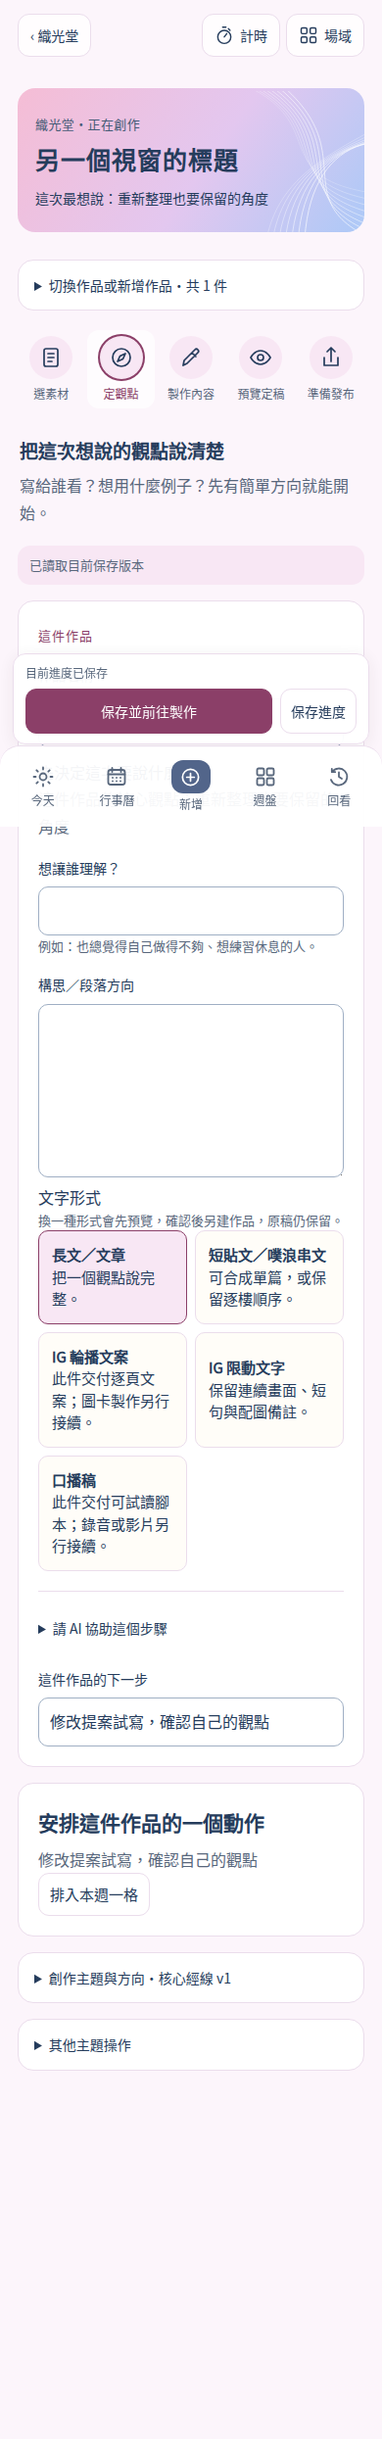
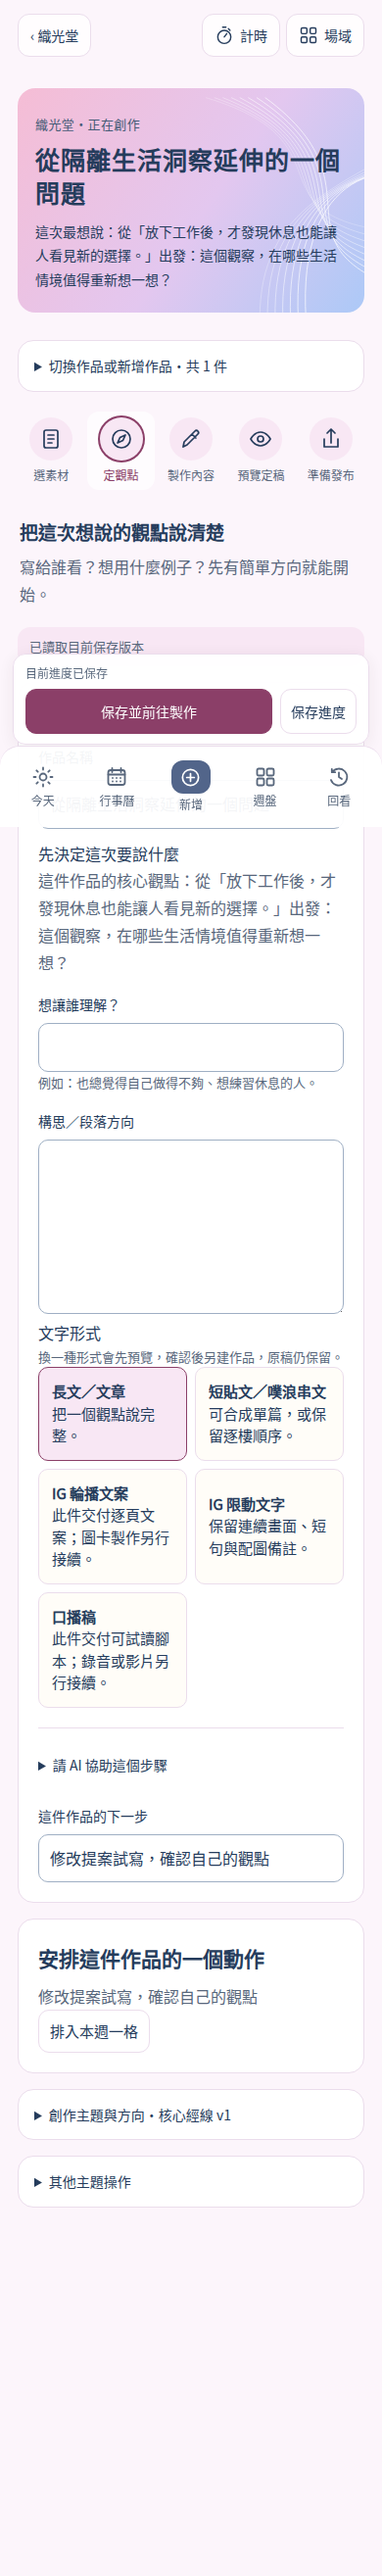
fix: freeze proposal scan plans and preserve safe recovery authorization

Changed region(s): [[0.0308, 0.0, 0.9538, 0.8659], [0.4308, 0.4948, 0.8615, 0.6185]]

diff --git a/lib/dojo/creativeProposals/store.ts b/lib/dojo/creativeProposals/store.ts
@@ -47,26 +47,37 @@ export async function patchProposal(body:Body){
  })]);return read(p.id);
 }
 async function allowedSource(ref:SourceRef){const policy=await sourcePolicies.read(ref);if(policy?.discovery!=='allow')return null;return resolvePolicySource(ref);}
+type ScanPlan={schema:1;refs:SourceRef[];audience:string;at:string;afterKey:string|null};
+function scanPlan(value:unknown):ScanPlan{
+ const p=value as ScanPlan;
+ if(!p||p.schema!==1||!Array.isArray(p.refs)||p.refs.length>10||typeof p.audience!=='string'||typeof p.at!=='string'||!Number.isFinite(Date.parse(p.at)))throw new LearningError('找題操作缺少可核對的原批次，請核對原操作',409);
+ const refs=p.refs.map(parseSourceRef),keys=refs.map(sourceKey);
+ if(new Set(keys).size!==keys.length||p.afterKey!==(keys.at(-1)??null))throw new LearningError('找題原批次游標不符',409);
+ return{...p,refs};
+}
 export async function scan(body:Body,now=new Date()){
  const op=operationId(body),s=await settings();const policies=(await sourcePolicies.list()).filter(p=>p.discovery==='allow'&&s.sourceTypes.includes(p.ref.sourceType)).sort((a,b)=>sourceKey(a.ref).localeCompare(sourceKey(b.ref)));
  const start=s.afterKey?policies.findIndex(p=>sourceKey(p.ref)>s.afterKey!):0;const batch=policies.slice(start<0?0:start,(start<0?0:start)+10);
- if(!batch.length)return {created:0,skipped:true};
- const steps:OperationStep[]=batch.map((policy,index)=>{
-  const key='candidate-'+index;let candidate:Omit<Proposal,'id'>|null=null;
+ const plan:ScanPlan={schema:1,refs:batch.map(p=>p.ref),audience:s.audience,at:now.toISOString(),afterKey:batch.length?sourceKey(batch.at(-1)!.ref):null};
+ const receipt=await runWeavingOperation(owner,op,'proposal_scan',body,r=>{
+ const saved=scanPlan(r.context);
+ const steps:OperationStep[]=saved.refs.map(ref=>{
+  const key='candidate-'+operationDigest(sourceKey(ref));let candidate:Omit<Proposal,'id'>|null=null;
   const writing=createStep(PROPOSAL_PREFIX,key,()=>{if(!candidate)throw new LearningError('來源尚未核對',409);return candidate;});
   return {key,async findConfirmed(r){
    const confirmed=await writing.findConfirmed(r);if(confirmed)return confirmed;
-   const source=await allowedSource(policy.ref);if(!source||!source.text.trim())return{id:'unavailable'};
-   candidate=buildCandidate(source,s.audience,now.toISOString(),owner);
-   const old=(await proposals()).filter(p=>sourceKey(p.source.ref)===sourceKey(policy.ref)&&p.source.digest===candidate!.source.digest);
+   const source=await allowedSource(ref);if(!source||!source.text.trim())return{id:'unavailable'};
+   candidate=buildCandidate(source,saved.audience,saved.at,owner);
+   const old=(await proposals()).filter(p=>sourceKey(p.source.ref)===sourceKey(ref)&&p.source.digest===candidate!.source.digest);
    if(old.length>1)throw new LearningError('來源有重複提案，請先核對',409);
    return old.length?{id:old[0].id}:null;
   },execute:writing.execute};
  });
- steps.push(settingsStep(current=>({...current,lastScanAt:now.toISOString(),afterKey:sourceKey(batch.at(-1)!.ref)})));
- await runWeavingOperation(owner,op,'proposal_scan',body,steps);
+ if(saved.refs.length)steps.push(settingsStep(current=>({...current,lastScanAt:current.lastScanAt&&current.lastScanAt>saved.at?current.lastScanAt:saved.at,afterKey:saved.afterKey})));
+ return steps;
+ },plan);
  const created=(await listJsonRecords(PROPOSAL_PREFIX)).filter(row=>(row.value as {_weavingMutation?:{operationId:string;owner:string}})?._weavingMutation?.operationId===op).length;
- return{created,skipped:false};
+ return{created,skipped:scanPlan(receipt.context).refs.length===0};
 }
 export async function runDue(now=new Date()){
  const s=await settings();if(!s.automaticEnabled||!s.cadenceHours||s.lastScanAt&&now.getTime()-Date.parse(s.lastScanAt)<s.cadenceHours*3600000)return{skipped:true};
@@ -84,6 +95,6 @@ export async function acceptProposal(body:Body){
  const r=await runWeavingOperation(owner,op,'proposal_accept',body,[
   unique('shuttle',WEAVING_SHUTTLE_TITLE_PREFIX,async()=>marked({...createShuttleDraft({title:p.title,coreStatement:p.angle,sourceType:'selected_sources',sourceId:p.source.ref.sourceId,sourceRefs:[p.source.ref],sourceSnapshot:p.source.text}),sourceSelections:[selection],revision:1})),
   unique('work',WEAVING_WORK_TITLE_PREFIX,async receipt=>{const shuttle=await readShuttle(receipt.result.shuttle.id);return marked({...createWorkDraft({shuttleId:shuttle.id,title:p.title,coreVersionId:shuttle.currentCoreVersionId,format:'text'}),status:'drafting',revision:1,draftText:p.trial,nextAction:'修改提案試寫，確認自己的觀點',textWorkflow:{...createTextWorkflow('article'),currentStep:'concept',sourceSelections:[selection],blocks:[{id:'proposal-trial',role:'提案試寫（待修改）',text:p.trial,mediaNote:''}]}});}),
-  updateStep(p.id,PROPOSAL_PREFIX,'proposal',(row,receipt)=>{const old=JSON.parse(row.內容) as Proposal;expectRevision(old,body.expectedRevision);return {...old,status:'accepted',revision:old.revision+1,acceptedWorkId:receipt.result.work.id,acceptedShuttleId:receipt.result.shuttle.id,updatedAt:new Date().toISOString()};})
+  updateStep(p.id,PROPOSAL_PREFIX,'proposal',async(row,receipt)=>{await verify();const old=JSON.parse(row.內容) as Proposal;expectRevision(old,body.expectedRevision);return {...old,status:'accepted',revision:old.revision+1,acceptedWorkId:receipt.result.work.id,acceptedShuttleId:receipt.result.shuttle.id,updatedAt:new Date().toISOString()};})
  ]);return{workId:r.result.work.id,shuttleId:r.result.shuttle.id};
 }

diff --git a/lib/dojo/weavingWorkflow/operations.ts b/lib/dojo/weavingWorkflow/operations.ts
@@ -22,6 +22,8 @@ export type OperationReceipt = {
     result: Record<string, EntityRef>;
     state: 'pending' | 'confirmed' | 'rejected' | 'unresolved';
     error?: string;
+    // Server-owned immutable recovery plan; never inferred again on a retry.
+    context?: unknown;
 };
 export type OperationStep = {
     key: string;
@@ -82,7 +84,15 @@ async function persist(receipt: OperationReceipt): Promise<void> {
         await parent.close();
     }
 }
-export async function runWeavingOperation(owner: string, id: string, kind: OperationKind, input: unknown, steps: OperationStep[]): Promise<OperationReceipt> {
+async function recordFailure(receipt: OperationReceipt, error: unknown): Promise<void> {
+    const states = Object.values(receipt.steps);
+    receipt.state = states.some(s => s === 'dispatching' || s === 'unresolved') ? 'unresolved'
+        : states.includes('confirmed') ? 'pending' : 'rejected';
+    receipt.error = error instanceof Error ? error.message : String(error);
+    receipt.updatedAt = new Date().toISOString();
+    await persist(receipt);
+}
+export async function runWeavingOperation(owner: string, id: string, kind: OperationKind, input: unknown, steps: OperationStep[] | ((receipt: OperationReceipt) => OperationStep[]), context?: unknown): Promise<OperationReceipt> {
     const digest = operationDigest(input), old = await inspectWeavingOperation(owner, id);
     if (old && (old.kind !== kind || old.inputDigest !== digest))
         throw new WeavingError('同一操作識別的內容不同，請保留原操作或重新確認新內容', 409);
@@ -95,12 +105,22 @@ export async function runWeavingOperation(owner: string, id: string, kind: Opera
         if (previous?.state === 'confirmed')
             return previous;
         const now = new Date().toISOString();
-        const receipt: OperationReceipt = previous ?? { schemaVersion: 1, owner, operationId: id, kind, inputDigest: digest, createdAt: now, updatedAt: now, steps: {}, result: {}, state: 'pending' };
+        const receipt: OperationReceipt = previous ?? { schemaVersion: 1, owner, operationId: id, kind, inputDigest: digest, createdAt: now, updatedAt: now, steps: {}, result: {}, state: 'pending', ...(context === undefined ? {} : {context}) };
         await persist(receipt);
-        for (const step of steps) {
+        let planned: OperationStep[];
+        try { planned = typeof steps === 'function' ? steps(receipt) : steps; }
+        catch (error) { await recordFailure(receipt, error); throw error; }
+        for (const step of planned) {
             if (receipt.steps[step.key] === 'confirmed')
                 continue;
-            const found = await step.findConfirmed(receipt);
+            let found: EntityRef | null;
+            try { found = await step.findConfirmed(receipt); }
+            catch (error) {
+                // Pre-dispatch validation can safely release an untouched operation.
+                // Never discard confirmed partial work or an uncertain dispatched step.
+                await recordFailure(receipt, error);
+                throw error;
+            }
             if (found) {
                 receipt.result[step.key] = found;
                 receipt.steps[step.key] = 'confirmed';
@@ -124,9 +144,7 @@ export async function runWeavingOperation(owner: string, id: string, kind: Opera
             catch (e) {
                 const unknown = outcome.sent - sent !== outcome.rejected - rejected;
                 receipt.steps[step.key] = unknown ? 'unresolved' : 'rejected';
-                receipt.state = unknown ? 'unresolved' : 'rejected';
-                receipt.error = e instanceof Error ? e.message : String(e);
-                await persist(receipt);
+                await recordFailure(receipt, e);
                 throw e;
             }
         }
